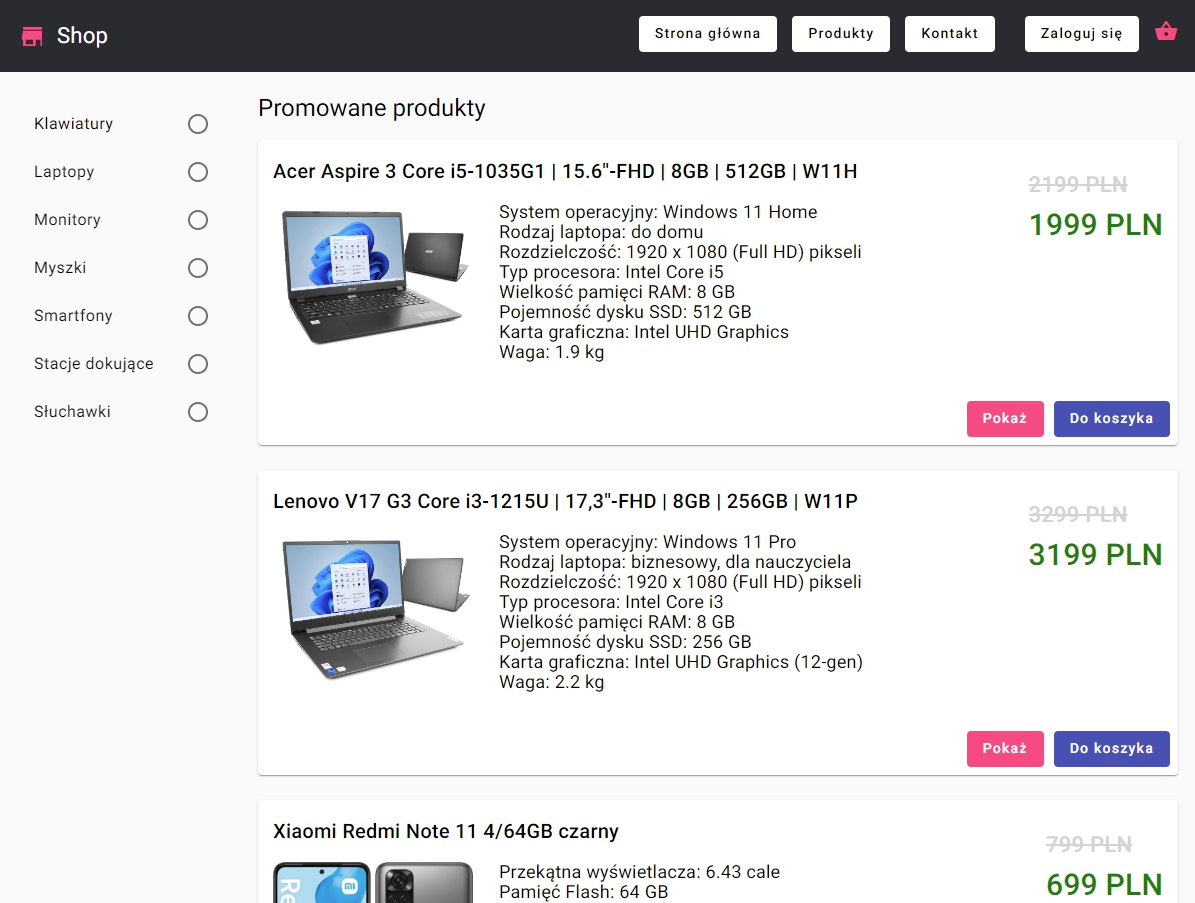
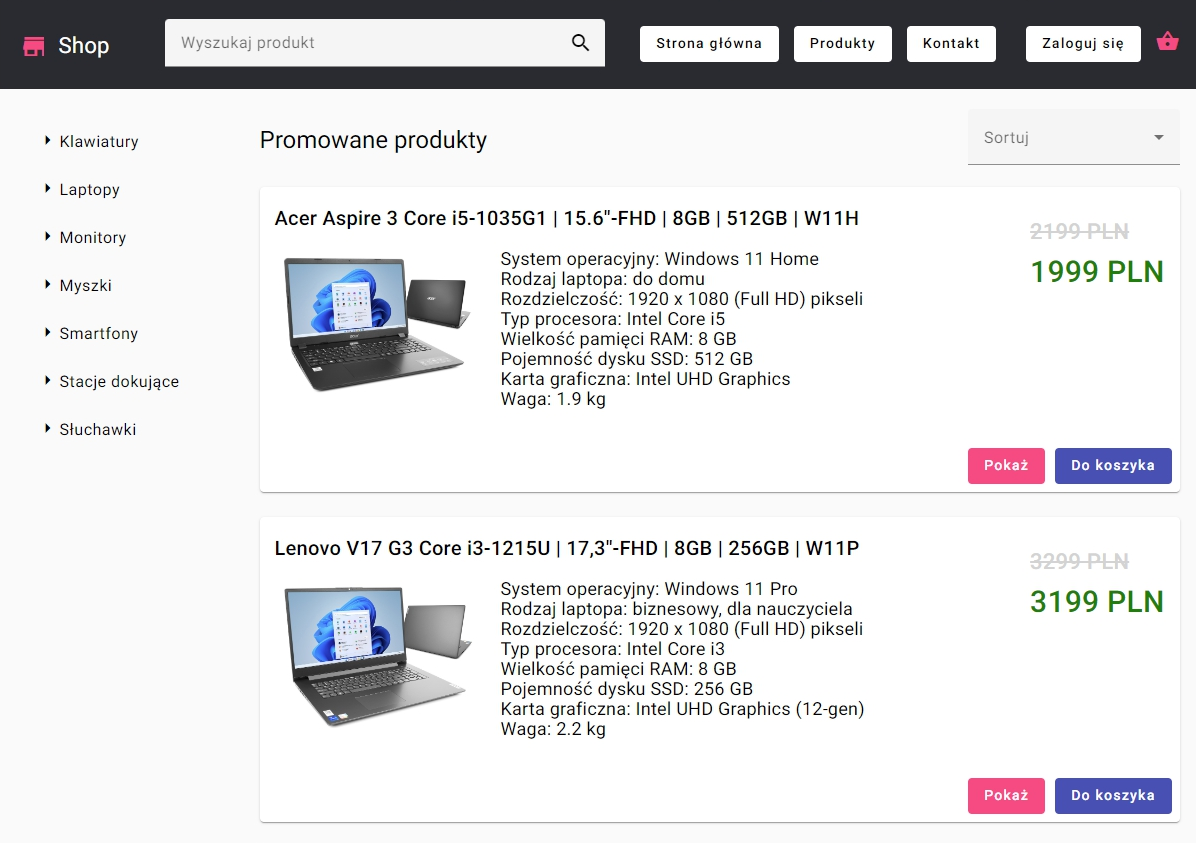
Updated README

diff --git a/README.md b/README.md
@@ -2,13 +2,14 @@
 This project was generated with [Angular CLI](https://github.com/angular/angular-cli) version 15.2.4.
 This is the frontend part of the online shop's web application. The application uses the REST API of 
 the backend part. Currently, the admin can manage products, categories, reviews, shipments, payments, 
-orders and users. The customer can browse products by category, add opinions, add products to the cart 
-and place orders. The admin can also export orders from a selected period to a CSV file and view a 
-sales chart for the current month (using Chart.js). In the dashboard, the admin can clear the cache of 
-the entire application. Admins and customers have dedicated login and password change pages. The customer 
-can also reset the password by providing an e-mail address and obtaining a special link valid for a 
-certain period of time. The online shop was integrated with the Przelewy24 online payment system.
-The application was containerized and deployed to the AWS cloud platform.
+orders and users. The customer can search and sort products (by name or price), browse products by 
+category, add reviews, add products to the cart and place orders. The admin can also export orders 
+from a selected period to a CSV file and view a sales chart for the current month (using Chart.js). 
+In the dashboard, the admin can clear the cache of the entire application. Admins and customers have 
+dedicated login and password change pages. The customer can also reset the password by providing an 
+e-mail address and obtaining a special link valid for a certain period of time. The online shop was 
+integrated with the Przelewy24 online payment system. The application was containerized and deployed 
+to the AWS cloud platform.
 - --
 ## Technologies
 * Node.js 18.15.0
@@ -18,8 +19,9 @@ The application was containerized and deployed to the AWS cloud platform.
 * HTML
 * SCSS
 * Git
+* Docker 24.0.5
 * nginx 1.23.4
-* ngrok 3.3.1
+* ngrok 3.3.1 (for local tests)
 
 ## Usage
 ```
